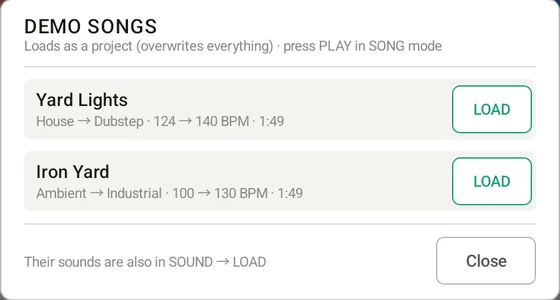
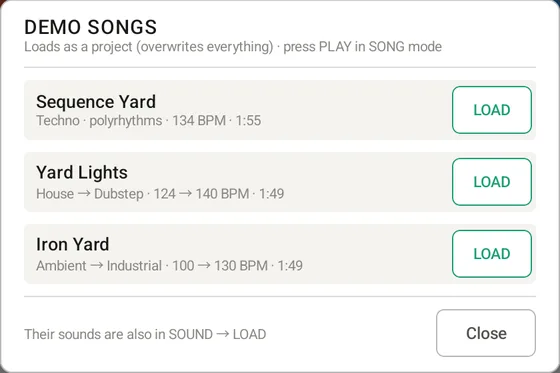
Manual: demo song order

diff --git a/dbr1/manual/ja.html b/dbr1/manual/ja.html
@@ -107,9 +107,9 @@
 <div>
 <table>
 <tr><th>曲</th><th>内容</th></tr>
+<tr><td>Sequence Yard</td><td>テクノ（134 BPM）。長さの違う無機質なシーケンス（12・10・9・7・5 ステップ）が 4 つ打ちとずれながら重なり、アシッドの線とダブのコードが動く（トラックごとの長さ → <a href="#track">3</a>）</td></tr>
 <tr><td>Yard Lights</td><td>ハウス（124 BPM）→ ダブステップ（140 BPM）。フィルターの開閉、コードのパン、ワブルベース</td></tr>
 <tr><td>Iron Yard</td><td>アンビエント（100 BPM）→ インダストリアル（130 BPM）。深いリバーブ・ディレイ、テープのように揺れるディレイ、歪み</td></tr>
-<tr><td>Sequence Yard</td><td>テクノ（134 BPM）。長さの違う無機質なシーケンス（12・10・9・7・5 ステップ）が 4 つ打ちとずれながら重なり、アシッドの線とダブのコードが動く（トラックごとの長さ → <a href="#track">3</a>）</td></tr>
 </table>
 <ul>
   <li>プロジェクトとして読み込むので、今のパターン・キット・BPM はすべて置き換わります（確認が出ます。↶ で戻せます）。残したい内容は先に SAVE してください。</li>
@@ -505,7 +505,7 @@
 <tr><td>チャンネル</td><td>モノラルで再生（ステレオは左右を合わせる）</td></tr>
 <tr><td>メモリ</td><td>16bit で保持。メモリにあるのは今のキットの音だけ（16 音）</td></tr>
 <tr><td>内蔵の音</td><td>67 音（キット 16 音 + 追加 4 音（44.1kHz / 24bit）、デモソングの音 47 音（44.1kHz / 16bit））</td></tr>
-<tr><td>デモソング</td><td>3 曲（Yard Lights / Iron Yard / Sequence Yard、各 約 2 分）</td></tr>
+<tr><td>デモソング</td><td>3 曲（Sequence Yard / Yard Lights / Iron Yard、各 約 2 分）</td></tr>
 <tr><td>同時発音</td><td>トラックごとに 1 音（次の音で前の音を短くフェードして止める）</td></tr>
 <tr><td>鳴り方</td><td>ONE SHOT / GATE（1 ステップ）/ BAR（パターンの終わりまで）。STOP で全音停止</td></tr>
 <tr><td>start / end</td><td>0〜127（再生する範囲）</td></tr>

diff --git a/dbr1/manual/en.html b/dbr1/manual/en.html
@@ -107,9 +107,9 @@
 <div>
 <table>
 <tr><th>Song</th><th>What it is</th></tr>
+<tr><td>Sequence Yard</td><td>Techno (134 BPM). Mechanical sequences of different lengths (12, 10, 9, 7 and 5 steps) drift against the four-on-the-floor, with an acid line and dub chords (per-track length → <a href="#track">3</a>)</td></tr>
 <tr><td>Yard Lights</td><td>House (124 BPM) → dubstep (140 BPM). Filter sweeps, panned chords, wobble bass</td></tr>
 <tr><td>Iron Yard</td><td>Ambient (100 BPM) → industrial (130 BPM). Deep reverb and delay, a tape-like wobbling delay, distortion</td></tr>
-<tr><td>Sequence Yard</td><td>Techno (134 BPM). Mechanical sequences of different lengths (12, 10, 9, 7 and 5 steps) drift against the four-on-the-floor, with an acid line and dub chords (per-track length → <a href="#track">3</a>)</td></tr>
 </table>
 <ul>
   <li>A demo song loads as a project, so it replaces all patterns, the kit and the BPM (you are asked first, and ↶ brings them back). Save your work first if you want to keep it.</li>
@@ -505,7 +505,7 @@
 <tr><td>Channels</td><td>Played as mono (stereo files are mixed down)</td></tr>
 <tr><td>Memory</td><td>Held as 16-bit; only the sounds of the current kit (16) stay in memory</td></tr>
 <tr><td>Built-in sounds</td><td>67 (16 in the kit + 4 extra, 44.1 kHz / 24-bit; 47 from the demo songs, 44.1 kHz / 16-bit)</td></tr>
-<tr><td>Demo songs</td><td>3 (Yard Lights / Iron Yard / Sequence Yard, about 2 minutes each)</td></tr>
+<tr><td>Demo songs</td><td>3 (Sequence Yard / Yard Lights / Iron Yard, about 2 minutes each)</td></tr>
 <tr><td>Polyphony</td><td>One sound per track (a new hit quickly fades out the previous one)</td></tr>
 <tr><td>Play modes</td><td>ONE SHOT / GATE (one step) / BAR (until the end of the pattern); STOP silences everything</td></tr>
 <tr><td>start / end</td><td>0–127 (the part of the sample that plays)</td></tr>
